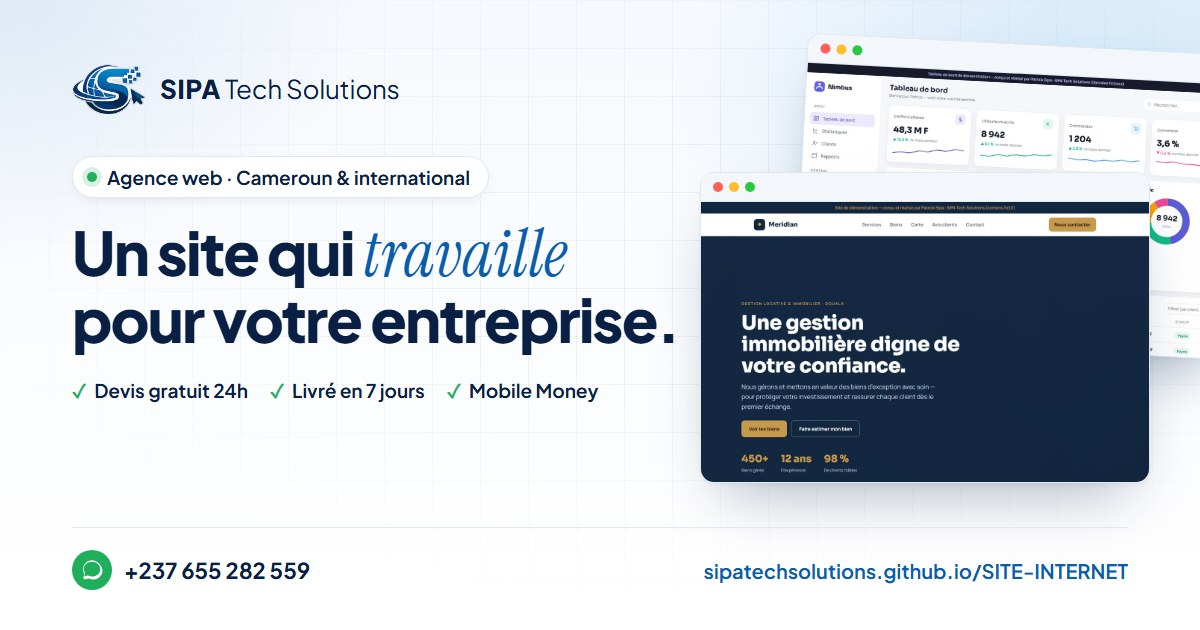
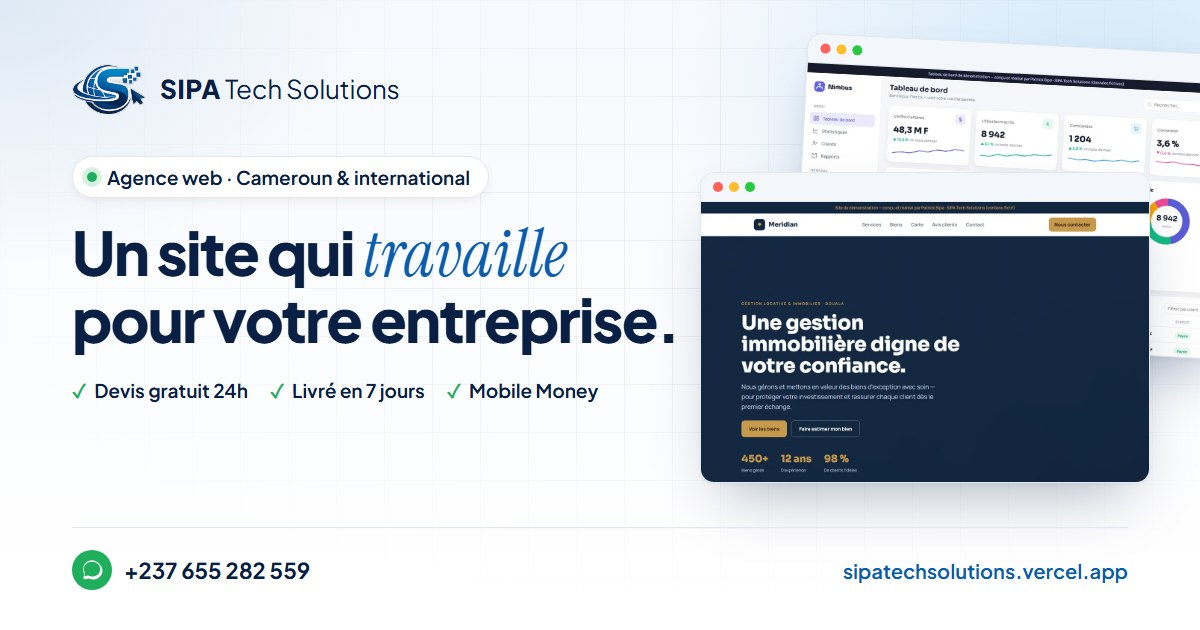
Adresse officielle : sipatechsolutions.vercel.app
GitHub Pages et Netlify sont bloqués chez Orange Cameroun ; Vercel reste accessible.
- canonical, Open Graph, Twitter, données structurées -> Vercel
- robots.txt et sitemap.xml -> Vercel
- image de partage régénérée avec la nouvelle adresse

Changed region(s): [[0.5858, 0.8746, 0.9558, 0.9349]]

diff --git a/index.html b/index.html
@@ -8,16 +8,16 @@
   <meta name="theme-color" content="#ffffff" />
   <meta name="robots" content="index, follow" />
   <meta name="author" content="SIPA Tech Solutions" />
-  <link rel="canonical" href="https://sipatechsolutions.github.io/SITE-INTERNET/" />
+  <link rel="canonical" href="https://sipatechsolutions.vercel.app/" />
 
   <!-- Open Graph -->
   <meta property="og:type" content="website" />
-  <meta property="og:url" content="https://sipatechsolutions.github.io/SITE-INTERNET/" />
+  <meta property="og:url" content="https://sipatechsolutions.vercel.app/" />
   <meta property="og:site_name" content="SIPA Tech Solutions" />
   <meta property="og:locale" content="fr_FR" />
   <meta property="og:title" content="SIPA Tech Solutions — Agence web camerounaise" />
   <meta property="og:description" content="Des sites internet sur-mesure, rapides et visibles sur Google. Devis gratuit sous 24h, livraison en 7 jours." />
-  <meta property="og:image" content="https://sipatechsolutions.github.io/SITE-INTERNET/assets/og-image.jpg" />
+  <meta property="og:image" content="https://sipatechsolutions.vercel.app/assets/og-image.jpg" />
   <meta property="og:image:width" content="1200" />
   <meta property="og:image:height" content="630" />
   <meta property="og:image:alt" content="SIPA Tech Solutions — Donnez à votre entreprise l'image qu'elle mérite" />
@@ -26,7 +26,7 @@
   <meta name="twitter:card" content="summary_large_image" />
   <meta name="twitter:title" content="SIPA Tech Solutions — Agence web camerounaise" />
   <meta name="twitter:description" content="Des sites internet sur-mesure, rapides et visibles sur Google. Devis gratuit sous 24h, livraison en 7 jours." />
-  <meta name="twitter:image" content="https://sipatechsolutions.github.io/SITE-INTERNET/assets/og-image.jpg" />
+  <meta name="twitter:image" content="https://sipatechsolutions.vercel.app/assets/og-image.jpg" />
 
   <link rel="icon" type="image/png" sizes="32x32" href="assets/brand/icon-32.png" />
   <link rel="apple-touch-icon" href="assets/brand/icon-180.png" />
@@ -41,9 +41,9 @@
     "@type": "ProfessionalService",
     "name": "SIPA Tech Solutions",
     "description": "Agence camerounaise de création de sites internet sur-mesure : sites vitrines, e-commerce et applications web.",
-    "url": "https://sipatechsolutions.github.io/SITE-INTERNET/",
-    "image": "https://sipatechsolutions.github.io/SITE-INTERNET/assets/og-image.jpg",
-    "logo": "https://sipatechsolutions.github.io/SITE-INTERNET/assets/brand/logo-full.png",
+    "url": "https://sipatechsolutions.vercel.app/",
+    "image": "https://sipatechsolutions.vercel.app/assets/og-image.jpg",
+    "logo": "https://sipatechsolutions.vercel.app/assets/brand/logo-full.png",
     "email": "sipatechsolutions@gmail.com",
     "telephone": "+237655282559",
     "areaServed": "Cameroun et international",
